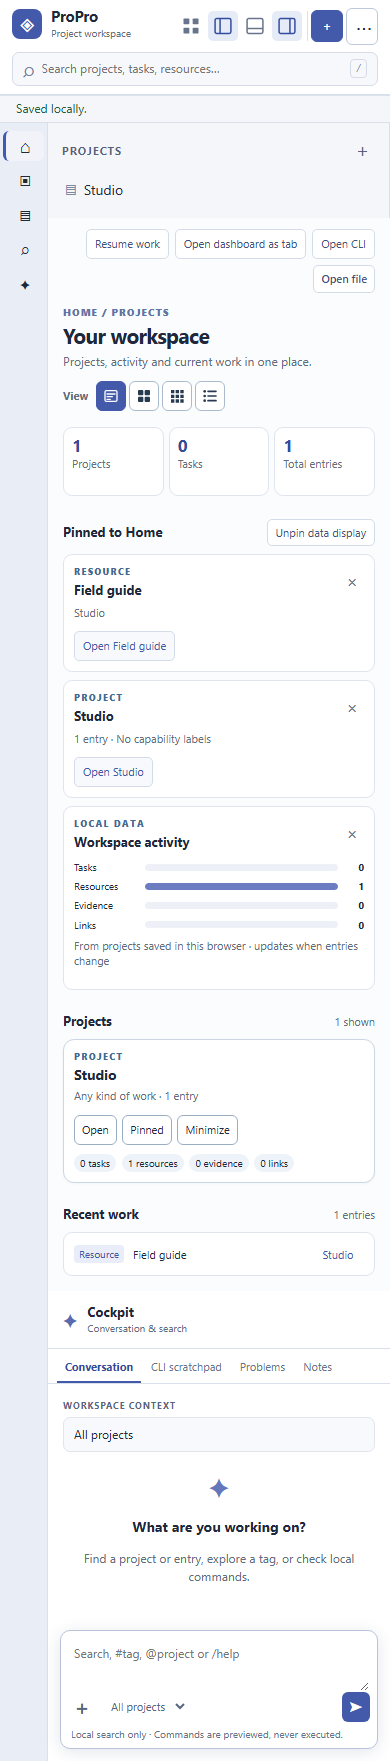
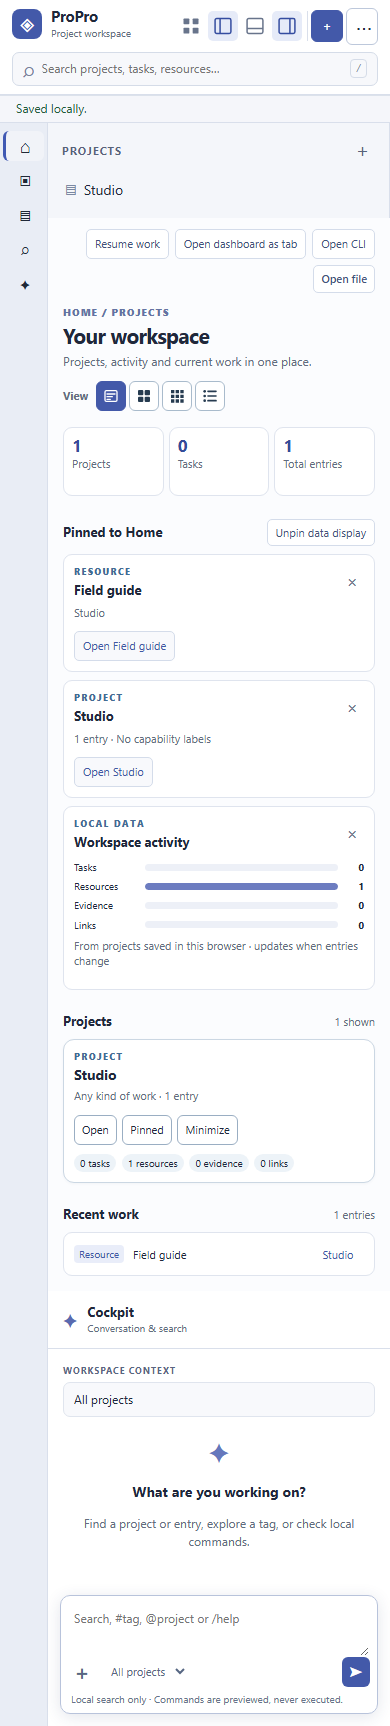
fix: keep bottom tools separate from conversation
Change-Level: DRIVE

Dev-Docs: updated

Validation: 10 browser and 2 model PASS; 1280px and 390px captures reviewed

diff --git a/styles.css b/styles.css
@@ -170,18 +170,6 @@ body { background:#f5f6fa; }
 .composer-attachments { display:flex; flex-wrap:wrap; gap:4px; }
 .attachment-chip { display:inline-flex; align-items:center; gap:3px; max-width:100%; padding:2px 4px; background:#edf0fa; border-radius:5px; font-size:10px; overflow-wrap:anywhere; }
 .attachment-chip button { border:0; background:transparent; padding:0 2px; }
-@media(min-width:1051px) {
-  #workbench.context-bottom { height:calc(100vh - 54px); min-height:540px; }
-  #workbench.context-bottom #context.cockpit-workbench__context { display:grid; grid-template-columns:minmax(0,1fr) minmax(260px,400px); grid-template-rows:auto minmax(0,1fr); }
-  #workbench.context-bottom #context[hidden] { display:none!important; }
-  #workbench.context-bottom .context-head { grid-column:1 / -1; }
-  #workbench.context-bottom .context-content { grid-column:1; grid-row:2; min-height:0; padding:9px 14px; }
-  #workbench.context-bottom .context-welcome { margin:7px 0 0; text-align:left; }
-  #workbench.context-bottom .context-spark { display:none; }
-  #workbench.context-bottom .context-welcome h3 { margin:0 0 3px; }
-  #workbench.context-bottom .context-welcome p { margin:0; }
-  #workbench.context-bottom .composer { grid-column:2; grid-row:2; align-self:end; margin:7px 10px; }
-}
 @media(max-width:1050px) { #workbench { min-height:0; } #context.cockpit-workbench__context { min-height:330px; } .context-welcome { margin-top:15px; } }
 @media(max-width:700px) { .site-header { grid-template-columns:1fr auto; gap:7px; padding:8px 12px; } .global-search { grid-column:1/-1; grid-row:2; width:100%; } .header-actions { grid-column:2; grid-row:1; gap:3px; } .header-actions #new-project span { display:none; } .header-actions > button { width:32px; } #content.cockpit-workbench__content { padding:15px; } .content-head { align-items:start; } .overview-stats { gap:5px; } .overview-stats div { padding:8px; } .overview-stats strong { font-size:17px; } }
 @media(max-width:420px) { .content-head { display:block; } .layout-picker { margin-top:11px; } .cards { grid-template-columns:1fr; } .project-card { padding:10px; } }
@@ -189,8 +177,11 @@ body { background:#f5f6fa; }
 .utility-tabs button { flex:0 0 auto; min-height:31px; padding:5px 8px; border:0; border-bottom:2px solid transparent; border-radius:0; background:transparent; color:#68748a; font-size:11px; white-space:nowrap; }
 .utility-tabs button[aria-selected="true"] { color:#354c9a; border-bottom-color:#4359a9; font-weight:700; }
 .utility-view[hidden] { display:none!important; }
-.conversation-view { display:flex; flex:1; flex-direction:column; min-height:0; }
-.conversation-view .context-content { flex:1; }
+.bottom-panel { display:flex; flex-direction:column; min-width:0; min-height:0; overflow:hidden; background:#fff; border-top:1px solid var(--border); }
+.bottom-panel[hidden],.bottom-resize[hidden] { display:none!important; }
+.bottom-resize { min-height:6px; background:#d9e0ec; cursor:row-resize; touch-action:none; }
+.bottom-resize:hover,.bottom-resize:focus-visible { background:#4359a9; }
+.bottom-resize:focus-visible { outline:2px solid #4359a9; outline-offset:-2px; }
 .utility-extra { flex:1; min-height:0; padding:16px; overflow:auto; font-size:12px; color:#566278; }
 .utility-extra h3 { margin:0 0 6px; color:var(--ink); font-size:14px; }
 .utility-extra p { line-height:1.5; }
@@ -201,10 +192,18 @@ body { background:#f5f6fa; }
 .scratch-row button { padding:5px 9px; border:1px solid #c9d2e1; border-radius:6px; background:#eef1f8; }
 .utility-extra output { display:block; margin-top:12px; padding:10px; border:1px solid #e0e5ee; border-radius:6px; background:#f8f9fc; min-height:36px; }
 @media(min-width:1051px) {
-  #workbench.context-bottom #context.cockpit-workbench__context { display:flex; flex-direction:column; }
-  #workbench.context-bottom .conversation-view { display:grid; grid-template-columns:minmax(0,1fr) minmax(260px,400px); grid-template-rows:minmax(0,1fr); }
-  #workbench.context-bottom .conversation-view .context-content { grid-column:1; grid-row:1; }
-  #workbench.context-bottom .conversation-view .composer { grid-column:2; grid-row:1; }
+  #workbench.has-bottom { height:calc(100vh - 54px); min-height:540px; grid-template-rows:minmax(0,1fr) 6px var(--propro-bottom-height,240px); }
+  #workbench.has-bottom > .cockpit-workbench__activity { grid-row:1 / span 3; }
+  #workbench.has-bottom > #explorer { grid-row:1 / span 3; }
+  #workbench.has-bottom > #content,#workbench.has-bottom > #context,#workbench.has-bottom > .cockpit-workbench__resize--right { grid-row:1; min-height:0; }
+  #workbench.has-bottom > .cockpit-workbench__resize--left { grid-row:1 / span 3; }
+  #workbench.has-bottom > #content { overflow:auto; }
+  #workbench.has-bottom > .bottom-resize { grid-column:4 / -1; grid-row:2; }
+  #workbench.has-bottom > .bottom-panel { grid-column:4 / -1; grid-row:3; }
+  #workbench.has-bottom.explorer-hidden > .bottom-resize,#workbench.has-bottom.explorer-hidden > .bottom-panel,
+  #workbench.has-bottom.context-left.context-hidden > .bottom-resize,#workbench.has-bottom.context-left.context-hidden > .bottom-panel { grid-column:2 / -1; }
+  #workbench.has-bottom.context-left > #context { grid-row:1 / span 3; }
+  #workbench.has-bottom.context-left > #explorer { grid-row:1; }
 }
 .editor-tabs { display:flex; align-items:stretch; gap:8px; min-width:0; margin:-8px 0 18px; border-bottom:1px solid var(--border); }
 .editor-tabs[hidden],.home-actions[hidden],.home-actions button[hidden] { display:none!important; }
@@ -235,4 +234,6 @@ body { background:#f5f6fa; }
   #workbench.cockpit-workbench { grid-template-columns:48px minmax(0,1fr); grid-template-rows:auto; }
   #workbench > #explorer,#workbench > #content,#workbench > #context { grid-column:2; grid-row:auto; }
   #workbench > .cockpit-workbench__activity { grid-column:1; grid-row:1 / span 3; }
+  #workbench > .bottom-panel { grid-column:2; grid-row:auto; min-height:220px; }
+  #workbench > .bottom-resize { display:none; }
 }

diff --git a/docs/PROP-CKP-001B-IMPLEMENTATION.md b/docs/PROP-CKP-001B-IMPLEMENTATION.md
@@ -92,3 +92,9 @@ The activity rail now distinguishes Home from Workspace. Home shows the dashboar
 Home pins are browser-local preferences in `propro-home-pins-v1`, separate from version 1 project records and the view/layout preferences. A project card or project entry can be pinned; the dashboard renders up to 30 pinned items and each project/entry opens a center tab. Resources, Evidence and Links are title-based project entries here, not uploaded binary assets or external integrations. The optional Workspace activity chart is calculated from locally saved task/resource/evidence/link counts and updates when records change. It is labeled as local data and is not a live feed. Invalid targets disappear from the rendered pins; removed entries and replaced projects are pruned from saved pins. Running captures at `docs/screenshots/propro-pinned-home-1280.png` and `docs/screenshots/propro-pinned-home-390.png` verify the populated dashboard. Browser checks cover pin persistence, entry-tab opening, Workspace navigation, project-data isolation, count accuracy, narrow reflow and automated accessibility rules.
 
 Future widget and live-data adapters need an explicit source identity, freshness/refresh state, permissions, loading/error/stale states, and a safe action contract. Pinning a feature or tool must not trigger execution. Current pinned entry tabs expose the local record and a project link; they are not document or asset viewers.
+
+### Independent bottom tools correction — 2026-11-05
+
+Owner review corrected the earlier pane interpretation above: the bottom layout button must open a distinct bottom region, not move Conversation out of the right pane. ProPro now keeps the composer and conversation content in the side pane while CLI scratchpad, Problems and Notes occupy tabs in `#bottom-panel`. The top controls independently toggle the right side pane and bottom tools. The bottom height can be resized by pointer or keyboard and its visibility, height and selected tool persist separately from version 1 project data. The side-swap action still exchanges Conversation and Explorer; it does not turn either into the bottom pane. A saved legacy bottom-docked conversation layout is moved back to the right when loaded and opens the new bottom region.
+
+The running capture `docs/screenshots/propro-bottom-tools-1280.png` shows both panes open together. Browser checks cover simultaneous visibility, separate toggles, resize, reload, reset, narrow layout, local command preview, notes and accessibility. This is a ProPro host slice using the private Cockpit GUI `0.1.2` side-pane package; a reusable bottom-region API remains to be promoted into that package. The earlier description of four tabs inside Conversation and context docking to the bottom is superseded by this correction.
